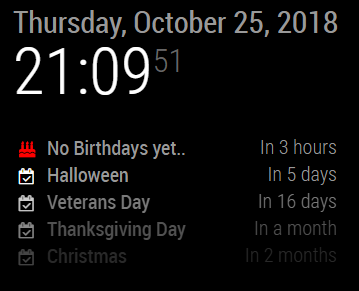
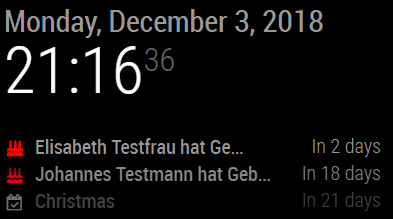
docs(readme): add instructions for GCP setup and MVP release

diff --git a/README.md b/README.md
@@ -7,20 +7,41 @@ A [MagicMirror²](https://magicmirror.builders/) helper to include the birthdays
 [![License](https://img.shields.io/github/license/PalatinCoder/MMM-GoogleBirthdaysProvider.svg?style=flat-square)](https://github.com/PalatinCoder/MMM-GoogleBirthdaysProvider/blob/master/LICENSE.md)
 
 > ## 🛠 Work in progress
-> This module is just a hello world at the moment, so stay tuned until it reaches it's first release
+> The module is kind of a MVP (minimum viable product) at the moment. That means you can use it in your setup, but thins will definitely change on the way to v1.0.
+> Also, be aware that there are some [known issues](#known-limitations--issues)! Use it with care 😉
 
-## How it will work
+## How it works
 
 The module reads the birthdays of your Google Contacts via Google's People API and exposes them as an iCal Feed through an internal URL, so you can include it in the default calendar.
 
 ![Screenshot](screenshot.png)
+
+## Prerequisites
+
+You need to have a project setup on Google Cloud Platform for your mirror. If you use other Google Services (like the Directions API with MMM-MyCommute), you most likely already have a project.
+
+To enable the People API:
+1. Visit the [API Library](https://console.cloud.google.com/apis/library/people.googleapis.com) and click "Enable". Make sure you have the right project selected in the top menu.
+
+After the API is enabled, you need to create credentials for the module.
+
+2. From the [Overview](https://console.cloud.google.com/apis/api/people.googleapis.com/overview) of the People API, select "Credentials" on the left.
+3. Click the button "Create credentials" and choose "OAuth client ID"
+4. Select "Other" and give the client a recognizable name, like "MMM-GoogleBirthdaysProvider"
+5. Click "Create"
+
+You should be redirected to the credentials overview
+
+6. Download the newly created credentials and set the file aside for now, you'll need it in a moment.
 
 ## Installation
 
 1. In your `modules/` directory, `git clone https://github.com/PalatinCoder/MMM-GoogleBirthdaysProvider.git`
 2. `cd` in the new `MMM-GoogleBirthdaysProvider` directory
 3. `npm install --production` (note the production flag, so you don't get all the dev dependencies - you don't need them if you just want to use the module)
-4. Add the module to your `config.js`:
+4. Place the JSON file with the credentials (from step 6 above) in `google-api-credentials/credentials.json`
+5. Run `npm run token:generate` and follow the instructions. This will authorize your instance of the module against your GCP project and store an authorization token.
+6. Add the module to your `config.js`:
    ```
    {
        module: "MMM-GoogleBirthdaysProvider",
@@ -29,7 +50,7 @@ The module reads the birthdays of your Google Contacts via Google's People API a
    ```
    Note: Don't give the module a position, as it doesn't render any DOM at all
 
-5. Add `http://localhost:8080/mmm-googlebirthdaysprovider` to your calendar URLs, something like this:
+7. Add `http://localhost:8080/mmm-googlebirthdaysprovider` to your calendar URLs, something like this:
    ```
    (...)
 		{
@@ -47,9 +68,11 @@ The module reads the birthdays of your Google Contacts via Google's People API a
 		}
    (...)
    ```
+8. That's it, now have fun 😉
 
 ## Known Limitations / Issues
 * Birthdays are only fetched once, when the node_helper is initialized. Should do that regularly
 * By now, all birthday events are set to the current year, thus you won't see next year's birthdays untils new years day
 * Only one google account is supported
 * there is no pagination implemented for the data returned by Google People API. Thus, the maximum number of contacts available is 2000 (hard limit on google's side).
+* The event title is hardcoded to german for now (sorry 🙈) However you could work around that by using the calendar's `titleReplace` config option
